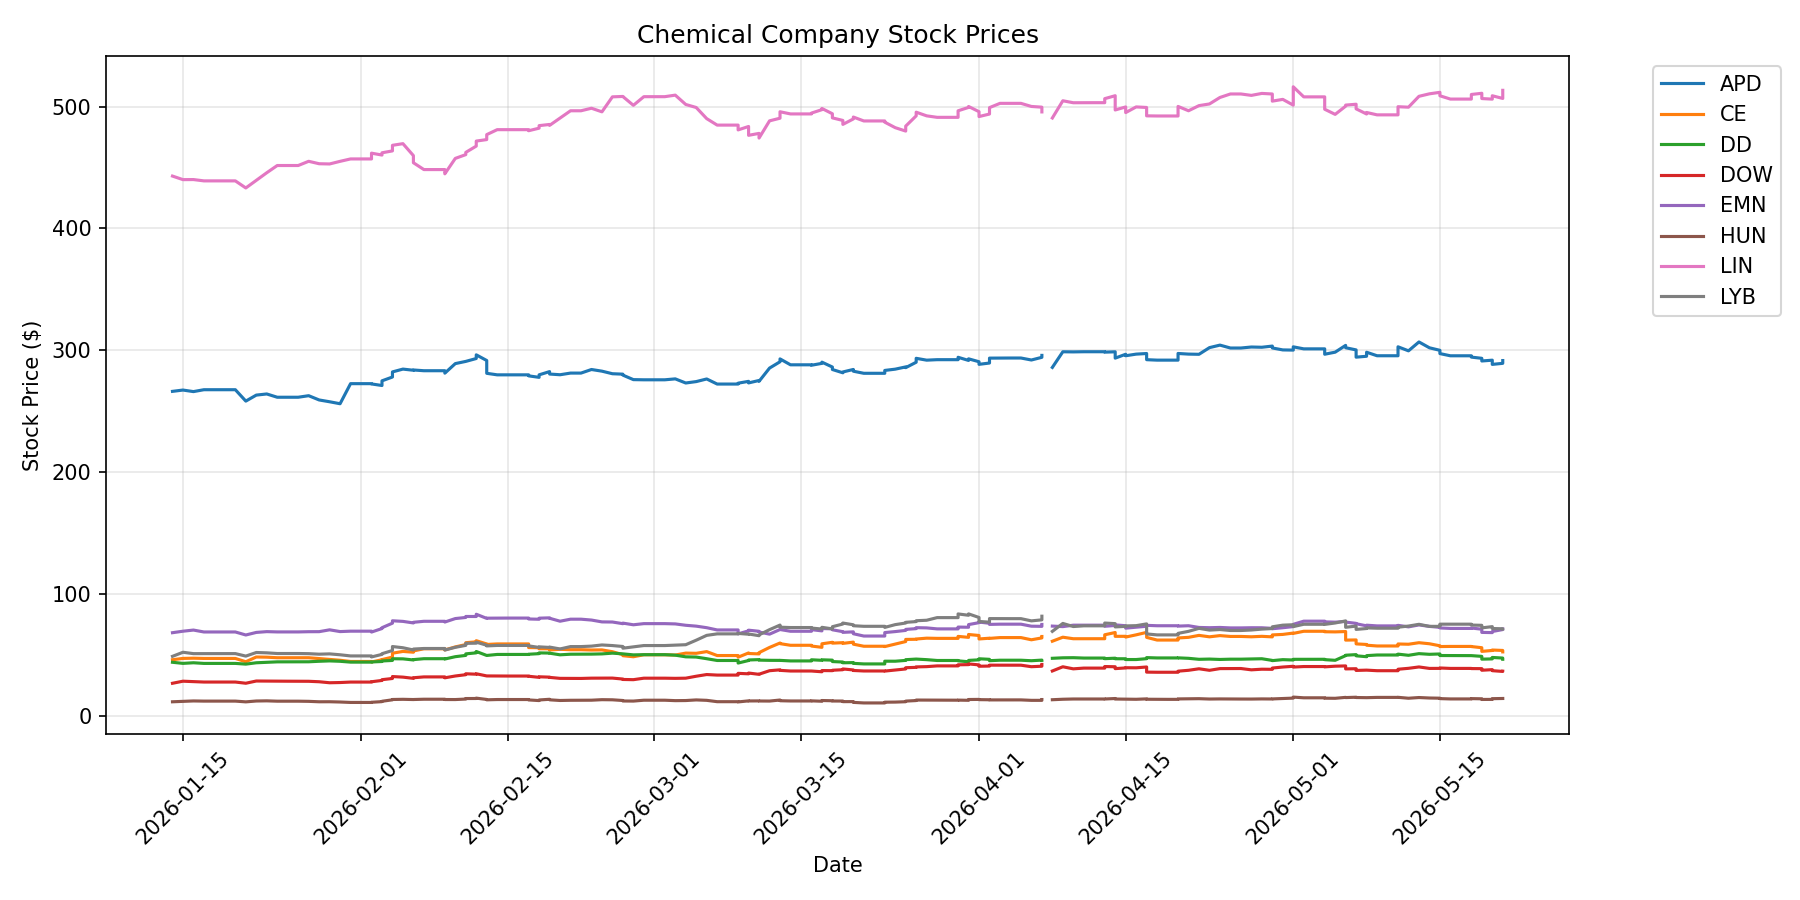
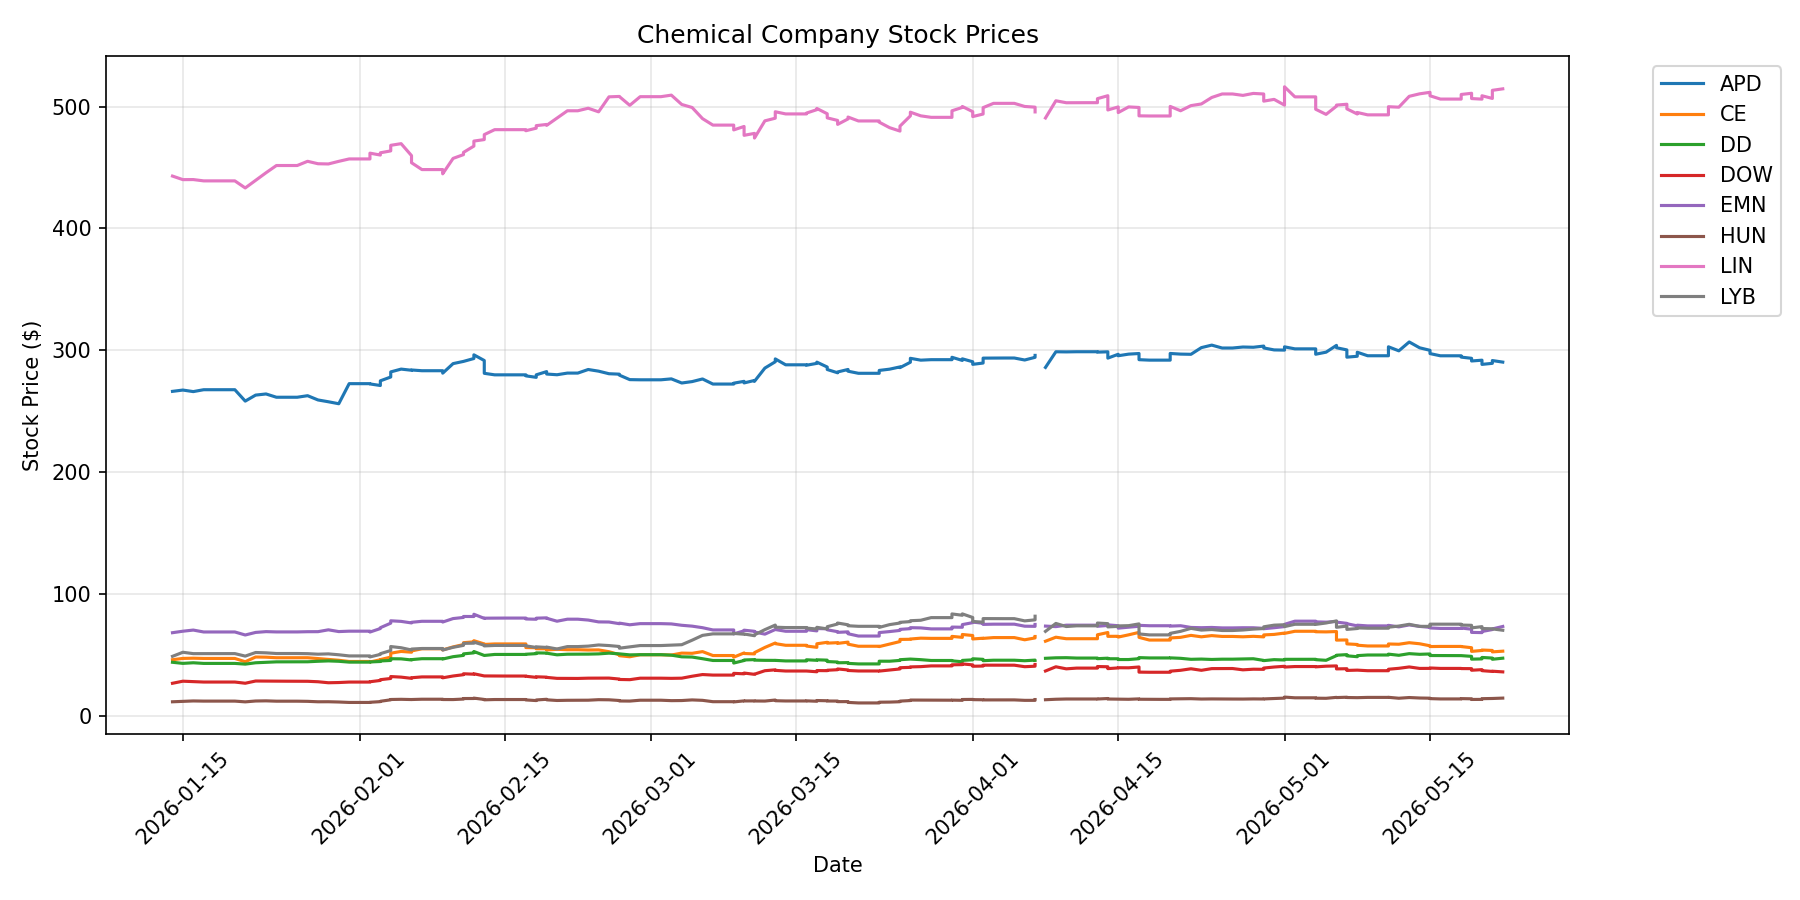
Daily price update: 2026-05-22

diff --git a/README.md b/README.md
@@ -2,29 +2,29 @@
 
 Automated daily tracking of chemical commodity prices and chemical company stocks.
 
-## Latest Prices (Updated: 2026-05-21)
+## Latest Prices (Updated: 2026-05-22)
 
 ### Energy Commodities
 
 | Commodity | Price | Change (24h) | Unit |
 |-----------|-------|--------------|------|
-| WTI Crude Oil | $101.19 | +2.93 (+2.98%) | $/barrel |
-| Brent Crude Oil | $107.46 | +2.44 (+2.32%) | $/barrel |
-| Natural Gas | $3.16 | +0.16 (+5.26%) | $/MMBtu |
-| Heating Oil | $3.87 | -0.08 (-2.07%) | $/gallon |
+| WTI Crude Oil | $97.31 | +0.96 (+1.00%) | $/barrel |
+| Brent Crude Oil | $104.07 | +1.49 (+1.45%) | $/barrel |
+| Natural Gas | $3.14 | +0.12 (+3.91%) | $/MMBtu |
+| Heating Oil | $3.75 | -0.08 (-2.10%) | $/gallon |
 
 ### Chemical Company Stocks
 
 | Company | Ticker | Price | Change (24h) |
 |---------|--------|-------|--------------|
-| Dow Inc. | DOW | $36.46 | +0.19 (+0.51%) |
-| LyondellBasell | LYB | $71.19 | -0.11 (-0.15%) |
-| DuPont | DD | $46.27 | -0.98 (-2.07%) |
-| Air Products | APD | $291.47 | +2.28 (+0.79%) |
-| Linde | LIN | $513.29 | +6.66 (+1.32%) |
-| Eastman Chemical | EMN | $71.16 | +0.51 (+0.72%) |
-| Celanese | CE | $52.33 | -1.17 (-2.19%) |
-| Huntsman | HUN | $14.07 | +0.01 (+0.07%) |
+| Dow Inc. | DOW | $35.91 | -0.36 (-0.99%) |
+| LyondellBasell | LYB | $70.08 | -1.22 (-1.71%) |
+| DuPont | DD | $47.15 | -0.10 (-0.21%) |
+| Air Products | APD | $290.19 | +1.00 (+0.35%) |
+| Linde | LIN | $514.51 | +7.88 (+1.56%) |
+| Eastman Chemical | EMN | $73.19 | +2.54 (+3.60%) |
+| Celanese | CE | $52.90 | -0.60 (-1.12%) |
+| Huntsman | HUN | $14.38 | +0.32 (+2.28%) |
 
 ## Data Sources
 

diff --git a/logs/update_log.md b/logs/update_log.md
@@ -218,3 +218,4 @@ Daily updates to the chemical engineering data repository.
 - **2026-05-20 15:01:34**: Updated 4 energy prices, 8 stocks, 0 FRED series
 - **2026-05-21 01:07:49**: Updated 4 energy prices, 8 stocks, 0 FRED series
 - **2026-05-21 15:01:33**: Updated 4 energy prices, 8 stocks, 0 FRED series
+- **2026-05-22 00:46:36**: Updated 4 energy prices, 8 stocks, 0 FRED series
